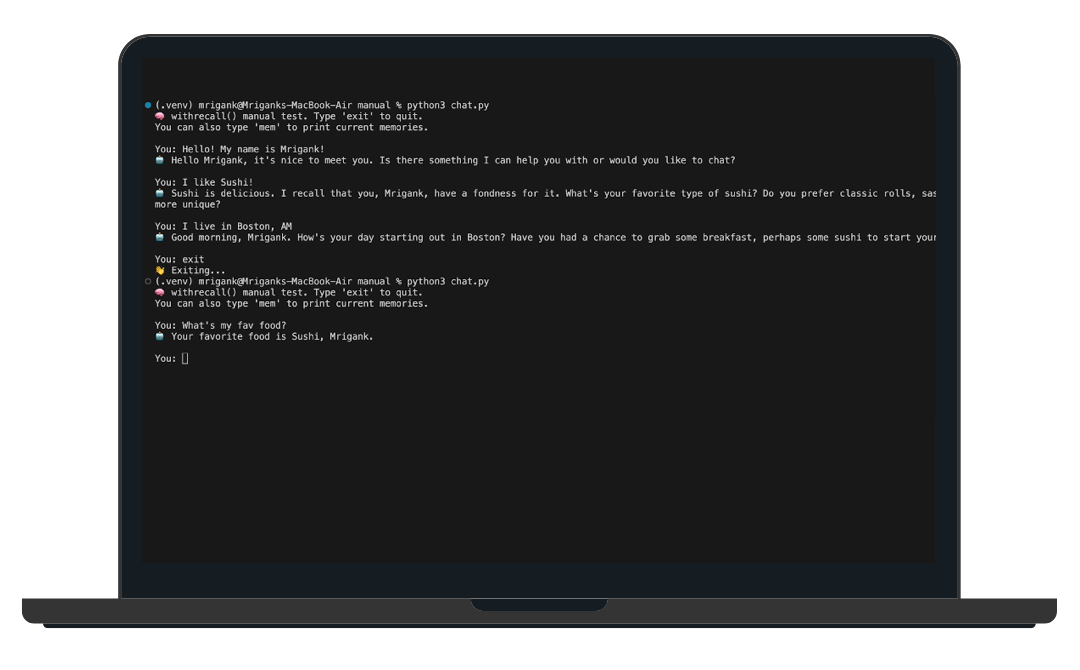
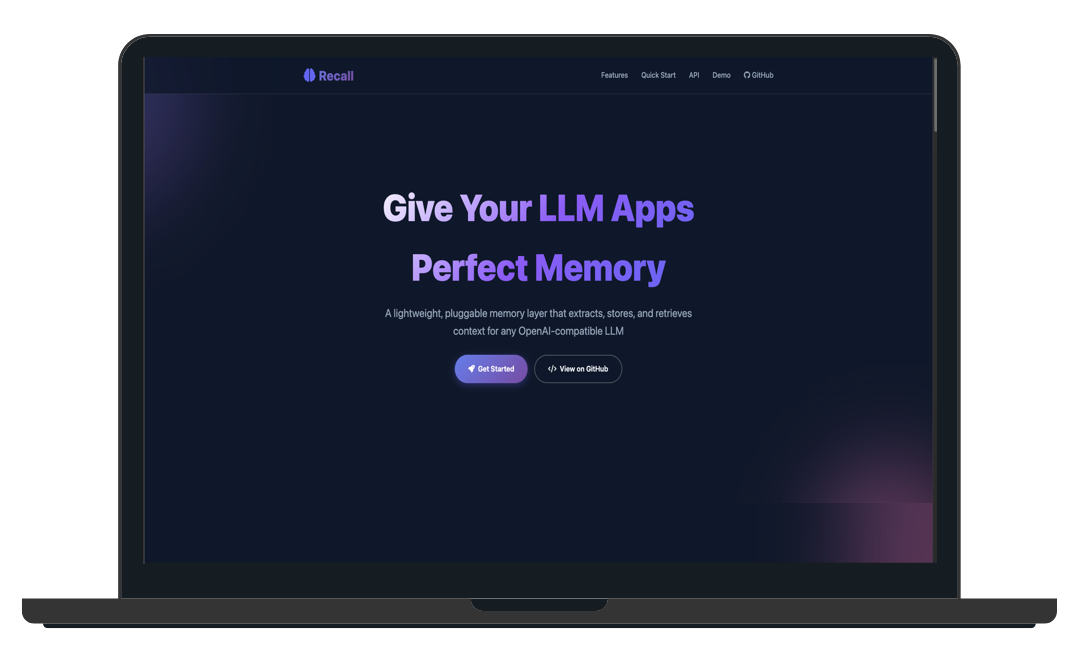
Updates

diff --git a/about-me/src/constants/Experiences.js b/about-me/src/constants/Experiences.js
@@ -3,6 +3,16 @@ import dell from "../assets/Home/Journey/dell-logo.jpeg"
 import neu from "../assets/Home/Journey/neu-logo.png"
 import msrit from "../assets/Home/Journey/msrit-logo.jpeg"
 const experiences = [
+   {
+    title: "Software Engineer 2",
+    company_name: "Dell Technologies",
+    icon: dell ,
+    iconBg: "#383E56",
+    date: "July 2025 - Present",
+    points: [
+      "I work at Dell's AI Research team on researching and developing cross functional Generative AI solutions using Open Source GenAI frameworks and models.", 
+    ],
+  },
   {
     title: "AI Software Engineer Co-op",
     company_name: "Dell Technologies",

diff --git a/about-me/src/components/Home/About.js b/about-me/src/components/Home/About.js
@@ -13,9 +13,7 @@ function About() {
               ABOUT <span className="purple"> ME </span>
             </h1>
             <p className="home-about-body">
-              I am a Computer Science graduate student at Northeastern
-              University. I am currently working at Dell Technologies as an{" "}
-              <b className="purple">AI Software Engineer Co-op</b>.
+              I am a <b className="purple">Software Engineer </b>at Dell's AI Research team. 
               <br />
               <br /> I am a full-stack developer. I find{" "}
               <b className="purple">Generative AI</b> really intriguing and I
